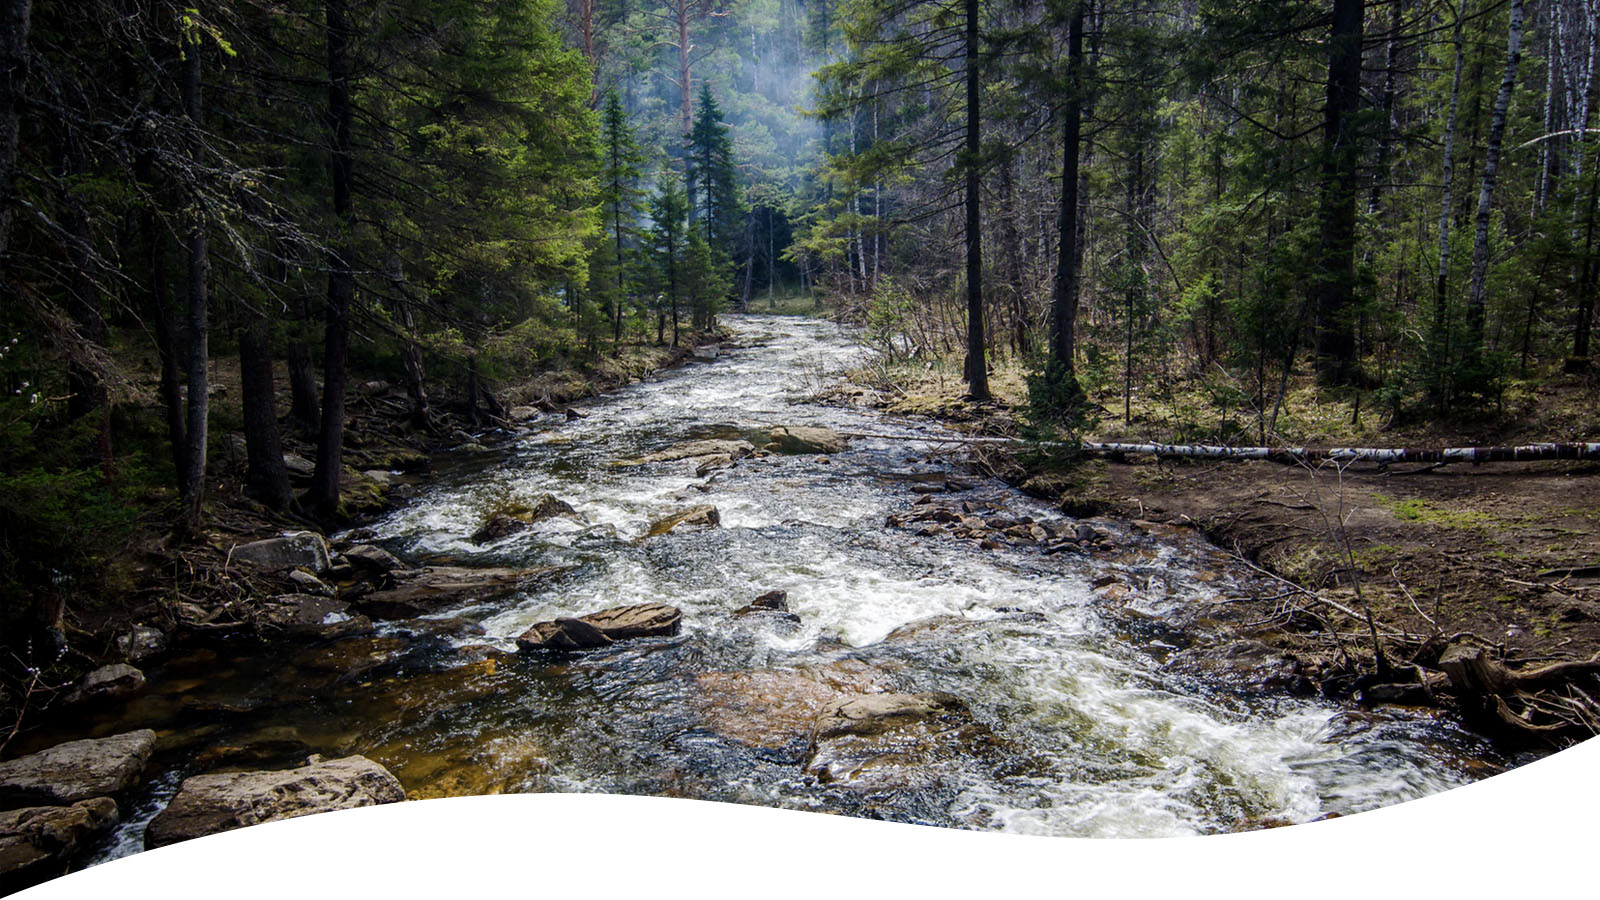
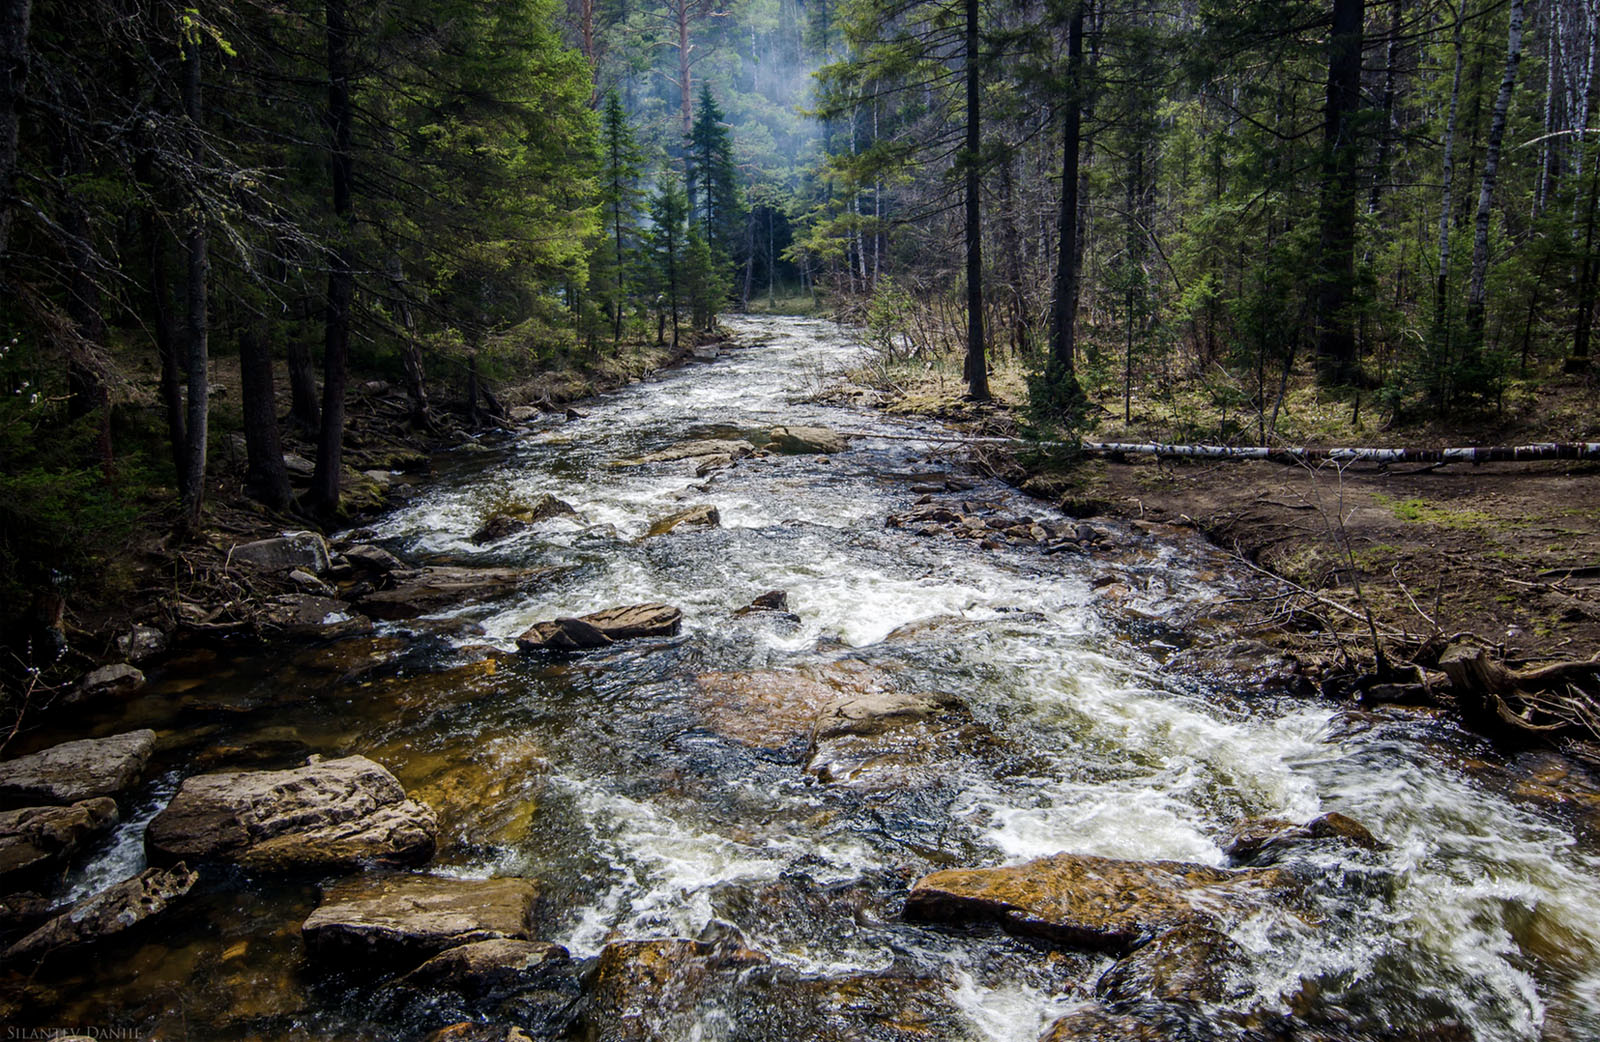
replaced hero and footer images, fixed h1s and h2s, and fixed the hero section

diff --git a/_assets_/css/layout.css b/_assets_/css/layout.css
@@ -254,27 +254,28 @@ ul>li>a {text-decoration: none;}
 
 
 /* ---------------- Hero ---------------- */
-#hero {position: relative;}
-#hero>h1 {position: absolute; top: 50%; left: 50%; transform: translate(-50%, -50%); color: #fff; font-size: 120px; font-weight: 700; text-transform: uppercase;}
 @font-face {
 	font-family: wildYouth;
 	src: url(../fonts/WildYouth-Regular.otf_/WildYouth-Regular.otf);
   }
-#hero>h1>span {color: #f7f088; font-family: wildYouth; font-size: 65px; font-weight: 300; text-transform: none; position: absolute; bottom: -50px; right: 20px}
-#hero>h1>span:first-of-type {top: -50px; left: 18px;}
+#slider {position: relative; height: 1000px;}
+.bxslider>li>img {position: absolute; bottom: 0px; left: 0;}
+.bxslider>li>h1 {position: absolute; top: 50%; left: 50%; transform: translate(-50%, -50%); color: #fff; font-size: 120px; font-weight: 700; text-transform: uppercase; text-shadow: 2px 2px 10px #000;}
+.bxslider>li>h1>span {color: #f7f088; font-family: wildYouth; font-size: 65px; font-weight: 300; text-transform: none; position: absolute; bottom: -50px; right: 20px}
+.bxslider>li>h1>span:first-of-type {top: -50px; left: 18px;}
 
 
 /* ---------------- Quick Links ---------------- */
-#quick-links {margin: 30px 0;}
+#quick-links {margin: 70px 0;}
 .gutters {margin: 0 1.6%;}
 .gutters>img {width: 75px;}
 .gutters>h3 {text-transform: uppercase; color: #686868; font-size: 18px; font-weight: 700;}
 
 
-/* ---------------- Quick Links ---------------- */
+/* ---------------- Welcome ---------------- */
 #welcome {margin-top: 100px;}
-#welcome>h1 {font-family: wildYouth; font-size: 32px; color: #91b789;}
-#welcome>h1>span {font-family: Lato; font-weight: 700; font-size: 42px; text-transform: uppercase; color: #546a92;}
+#welcome>h2 {font-family: wildYouth; font-size: 32px; color: #91b789;}
+#welcome>h2>span {font-family: Lato; font-weight: 700; font-size: 42px; text-transform: uppercase; color: #546a92;}
 #welcome>p {width: 35%; margin: 0 auto; font-size: 16px;}
 
 
@@ -283,7 +284,7 @@ ul>li>a {text-decoration: none;}
 #inner
 
 -----------------------------------------*/
-#flyout{margin:0;padding:0}1
+#flyout{margin:0;padding:0}
 #flyout li{margin:0;display:block;position:relative}
 #flyout a,
 #flyout span{text-decoration:none;padding:15px 20px;display:block;border-bottom:1px solid #000}

diff --git a/index.php b/index.php
@@ -35,6 +35,7 @@
 </head>
 <body id="homepage">
 
+<main>
 <nav class="nav clearfix">
 	<div class="nav-container">
 		<a id="logo" class="pull-left" href="./"><img src="./_assets_/images/logo.png"></a>
@@ -57,11 +58,18 @@
 	</div>
 </nav><!-- .nav.navbar -->
 
-
-<section id="hero">
-	<img src="./_assets_/images/hero.jpg">
-	<h1><span>Explore</span>Dickinson<span>County</span></h1>
-</section><!-- #hero -->
+<section id="slider">
+	<ul class="bxslider">
+		<li style="background:url('./_assets_/images/hero.jpg') center no-repeat;background-size:cover;">
+			<img src="./_assets_/images/hero-whitespace.png">
+			<h1>
+				<span>Explore</span>
+				Dickinson
+				<span>County</span>
+			</h1>
+		</li>
+	</ul><!--/.bxslider-->
+</section><!--/#slider-->
 
 <section id="quick-links">
 	<div class="container">
@@ -91,7 +99,7 @@
 </section><!-- #quick-links -->
 
 <section id="welcome" class="text-center">
-	<h1>Welcome to <br><span>Dickinson County</span></h1>
+	<h2>Welcome to <br><span>Dickinson County</span></h2>
 	<p>Lorem ipsum dolor sit amet, consectetur adipisicing elit, sed do eiusmod tempor incididunt ut labore et dolore magna aliqua. Ut enim ad minim veniam, quis nostrud exercitation ullamco laboris nisi ut aliquip ex ea commodo consequat. Duis aute irure dolor in reprehenderit in voluptate velit esse cillum dolore eu fugiat nulla pariatur. Excepteur sint occaecat cupidatat non proident, sunt in culpa qui officia deserunt mollit anim id est laborum.</p>
 </section><!-- #welcome -->
 
@@ -173,6 +181,7 @@
 		</div>
 	</div>
 </section><!-- #footer-links -->
+</main>
 
 <footer>
 	<p>powered by <span>revize.</span> | <a href="./">login</a></p>
